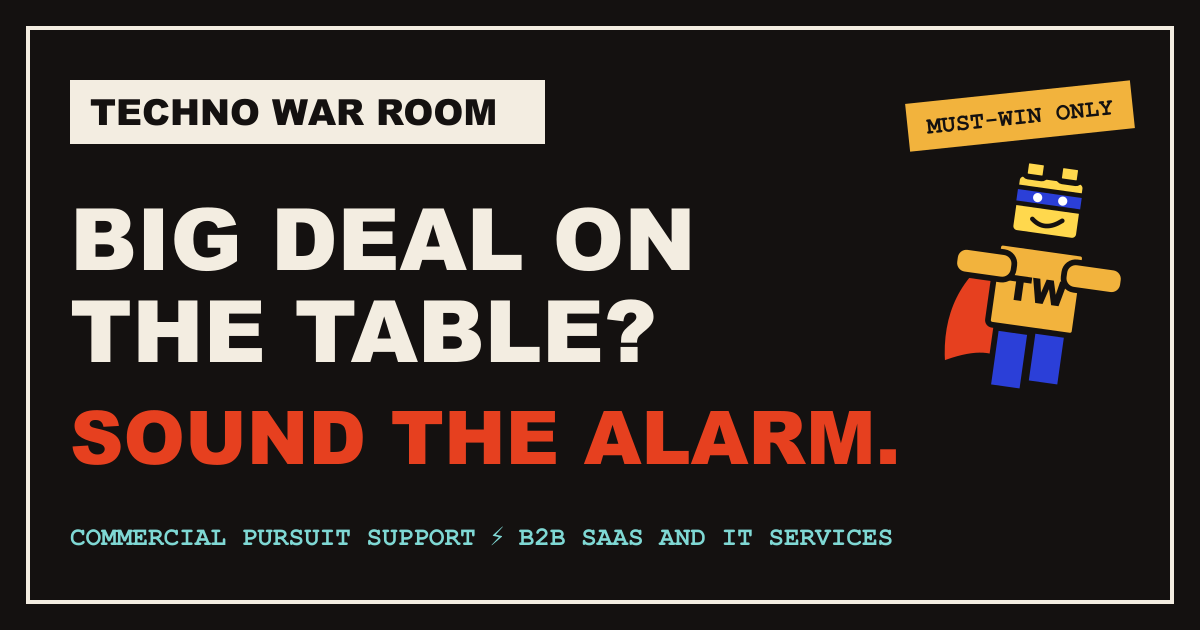
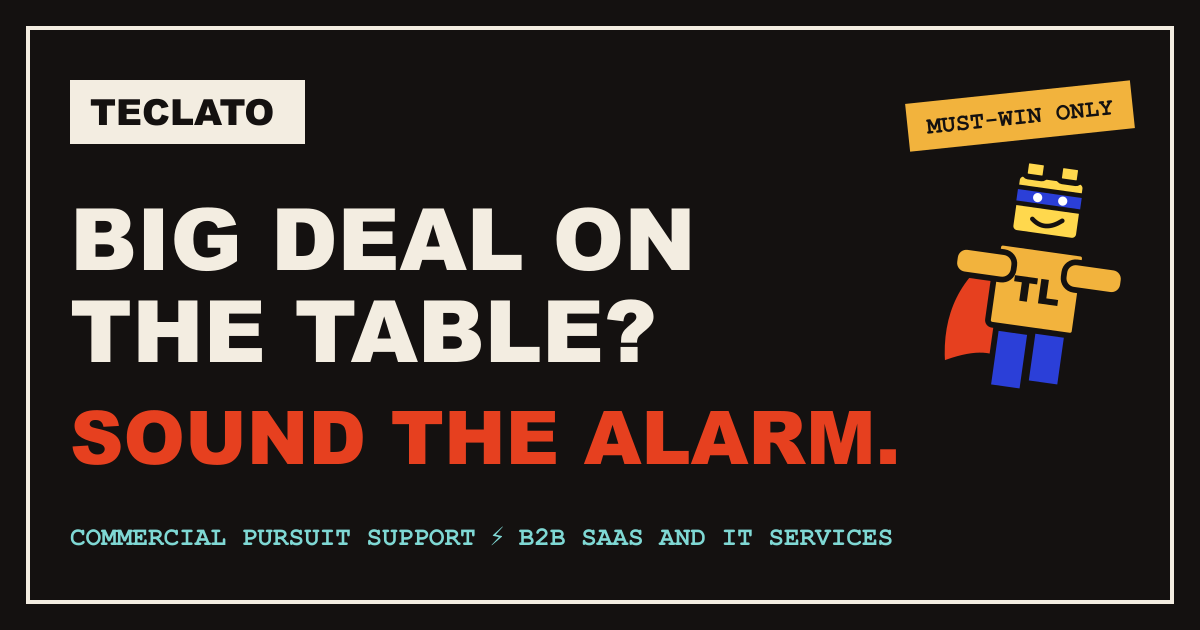
Rebrand to Teclato across site, mascot badge, films, and OG card

Changed region(s): [[0.1542, 0.1206, 0.4625, 0.2413], [0.8325, 0.4222, 0.8942, 0.4825]]

diff --git a/src/styles/global.css b/src/styles/global.css
@@ -1,4 +1,4 @@
-/* Techno War Room design system, extracted from the approved Gate 2 mock. */
+/* Teclato design system, extracted from the approved Gate 2 mock. */
 
 /* self-hosted fonts */
 @font-face { font-family: 'Clash Display'; src: url('/fonts/clash-display-600.woff2') format('woff2'); font-weight: 600; font-display: swap; }

diff --git a/DECISIONS.md b/DECISIONS.md
@@ -56,7 +56,7 @@ Typefaces: Clash Display (headlines), Switzer (body), IBM Plex Mono (labels), al
 
 **Decision: startup wedge, enterprise core.** Critical analysis found the wacky brand naturally converts founders and young SaaS sales teams, while the copy targeted mid-market CROs, a mismatch. The owner chose the dual-door model: the raise (pitch decks, competitive analysis, diligence) is the front-door offer with a fast sales cycle and publishable proof; enterprise pursuit support stays the core, higher-lifetime-value business. Home page now opens with two doors ("Raising a round?" and "Defending a seven-figure deal?") directly under the hero, and the engagement film moved to the top of the page. A full startup pivot was considered and declined: it would trade the owner's strongest expertise and recurring-revenue potential for a crowded, transactional market.
 
-**Rename pending:** the owner wants a name starting with "tec", cute, ending in "to" or "y" (tecato.com turned out to be owned by a third party since 2005). Candidate check against the Verisign registry done; decision pending.
+**Rename decided and executed: Teclato.** The owner asked for a cute name starting with "tec" and ending in "to" or "y" after tecato.com turned out to be owned by a third party since 2005. Candidates checked against the Verisign registry (tecito, tecly, tecky, tecsy, tecjoy, tecnito all taken); teclato.com was unregistered at decision time and needs registering by the owner. Rebranded across wordmark (Tec in cyan), all copy and titles, JSON-LD, film title cards (TECLATO ⚡ FILM NN), the mascot's chest badge (TW to TL, mascot still named Brick), the OG card, email (hello@teclato.com), and social placeholder handles (/company/teclato, teclato.substack.com, @teclato). "War room" survives as product language: the rooms, the films, the armory. Canonical host stays the workers.dev URL until teclato.com is attached.
 
 ## Gate 8: Contact and booking (2026-08-31)
 
